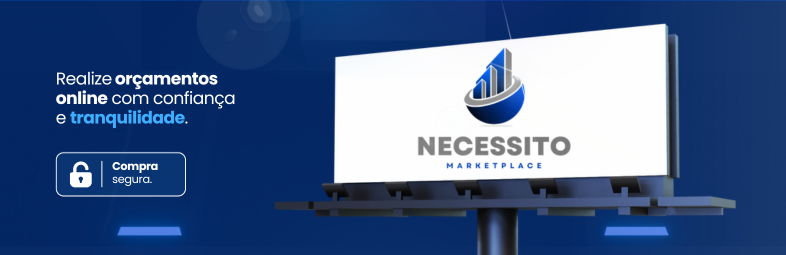
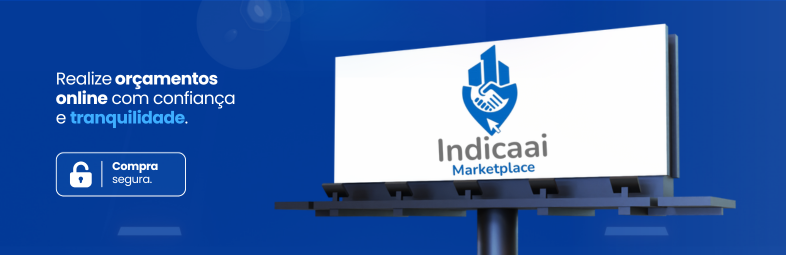
inclusao de nova identidade visual

diff --git a/templates/components/_header.html b/templates/components/_header.html
@@ -63,12 +63,12 @@
 <nav class="navbar navbar-expand-lg bg-body-tertiary py-2 py-lg-3">
     <div class="container">
       <a class="navbar-brand d-flex align-items-center" href="{% url 'home' %}">
-        <img src="{% static 'img/logo2.png' %}" alt="Necessito.br" height="80" class="d-inline-block align-top me-2">
+        <img src="{% static 'img/logo2.png' %}" alt="indicaai.br" height="80" class="d-inline-block align-top me-2">
   
         <!-- MOBILE: Logo mais próximo do design -->
         <span class="d-block d-lg-none"
             style="font-size: 2rem; font-weight: 700; color: #2c3e50; font-family: 'Segoe UI', 'Roboto', sans-serif; margin-top: 0.2rem;">
-        Necessito
+        Indicaai
         </span>
 
   
@@ -171,7 +171,7 @@
         </ul>
       </div>
     </div>
-  </nav>
+</nav>
   
     <!-- Off Canvas Notificações -->
     <div class="offcanvas offcanvas-end" tabindex="-1" id="offcanvasNotifications" aria-labelledby="offcanvasNotificationsLabel">

diff --git a/ads/templates/components/_how_it_works.html b/ads/templates/components/_how_it_works.html
@@ -87,7 +87,7 @@
           </h4>
           <p class="mb-4">Publique sua primeira necessidade gratuitamente e receba propostas competitivas.</p>
           <a href="{% url 'necessidade_create' %}" class="btn btn-primary me-2">Anunciar Gratuitamente</a>
-          <a href="#!" class="btn btn-outline-secondary">Ver Exemplo</a>
+          <a href="#!" class="btn btn-outline-secondary mt-2">Ver Exemplo</a>
         </div>
       </div>
   
@@ -143,7 +143,7 @@
           </h4>
           <p class="mb-4">Cadastre-se como fornecedor e participe de oportunidades relevantes.</p>
           <a href="{% url 'register' %}" class="btn btn-primary me-2">Cadastrar como Fornecedor</a>
-          <a href="{% url 'search:necessidade_search_all' %}" class="btn btn-outline-secondary">Explorar Oportunidades</a>
+          <a href="{% url 'search:necessidade_search_all' %}" class="btn btn-outline-secondary mt-2">Explorar Oportunidades</a>
         </div>
       </div>
   

diff --git a/users/templates/user_profile.html b/users/templates/user_profile.html
@@ -36,7 +36,7 @@
                     <!-- Informações básicas: data de cadastro, cidade, estado -->
                     <p>
                         <i class="fas fa-calendar-check me-1"></i> 
-                        Na Necessito desde {{ user.date_joined|date:"Y" }}<br/>
+                        Na Indicaai desde {{ user.date_joined|date:"Y" }}<br/>
                         {% if user.cidade and user.estado  %}
                         <i class="fas fa-map-marker-alt me-1"></i> 
                         {{ user.cidade }}, {{ user.estado }}
@@ -76,7 +76,7 @@
 
                     <!-- Botão "Quero uma loja profissional" -->
                     <a href="#" class="btn btn-warning w-100 mt-3" style="font-weight: 500;">
-                        Perfil Necessito Profissional
+                        Perfil Indicaai Profissional
                     </a>
                 </div>
             </div>

diff --git a/templates/base.html b/templates/base.html
@@ -21,6 +21,11 @@
     <link rel="stylesheet" href="https://unpkg.com/leaflet.markercluster/dist/MarkerCluster.css" />
     <link rel="stylesheet" href="https://unpkg.com/leaflet.markercluster/dist/MarkerCluster.Default.css" />
     <!-- Favicon -->
+    <link rel="icon" type="image/png" sizes="32x32" href="{% static 'img/favicon-32x32.png' %}">
+    <link rel="icon" type="image/png" sizes="16x16" href="{% static 'img/favicon-16x16.png' %}">
+    <link rel="apple-touch-icon" sizes="180x180" href="{% static 'img/apple-touch-icon.png' %}">
+    <link rel="manifest" href="{% static 'favicon/site.webmanifest' %}">
+    
     <link rel="icon" type="image/x-icon" href="{% static 'img/favicon.ico' %}">
 
     <style>

diff --git a/users/templates/login.html b/users/templates/login.html
@@ -4,7 +4,7 @@
 <head>
     <meta charset="UTF-8">
     <meta name="viewport" content="width=device-width, initial-scale=1.0">
-    <title>{% block title %}Necessito - Seu Marketplace de Necessidades{% endblock %}</title>
+    <title>{% block title %}Indicaai - Seu Marketplace de Necessidades{% endblock %}</title>
     <!-- Link para o CSS do Bootstrap via CDN -->
     <link href="https://cdn.jsdelivr.net/npm/bootstrap@5.3.3/dist/css/bootstrap.min.css" 
           rel="stylesheet" 

diff --git a/users/templates/password_reset_email.html b/users/templates/password_reset_email.html
@@ -6,4 +6,4 @@ Por favor, acesse a seguinte página e escolha uma nova senha:
 Seu nome de usuário, caso tenha esquecido: {{ user.get_username }}
 
 Obrigado por usar nosso site!
-Equipe Necessito.br
+Equipe Indicaai.com

diff --git a/notifications/signals.py b/notifications/signals.py
@@ -47,7 +47,7 @@ def notificar_finalizacao_anuncio(sender, instance, **kwargs):
             # Envia email para fornecedor
             send_mail(
                 subject="Anúncio Finalizado",
-                message=f"Olá {orcamento_aceito.fornecedor.first_name},\n\nO anúncio '{instance.titulo}' que você atendeu foi finalizado pelo cliente.\n\nAtenciosamente,\nNecessito",
+                message=f"Olá {orcamento_aceito.fornecedor.first_name},\n\nO anúncio '{instance.titulo}' que você atendeu foi finalizado pelo cliente.\n\nAtenciosamente,\Indicaai",
                 from_email=settings.DEFAULT_FROM_EMAIL,
                 recipient_list=[orcamento_aceito.fornecedor.email],
                 fail_silently=False
@@ -56,7 +56,7 @@ def notificar_finalizacao_anuncio(sender, instance, **kwargs):
         # Envia email para cliente
         send_mail(
             subject="Anúncio Finalizado",
-            message=f"Olá {instance.cliente.first_name},\n\nSeu anúncio '{instance.titulo}' foi finalizado com sucesso.\n\nObrigado por usar nossa plataforma.\n\nAtenciosamente,\nNecessito",
+            message=f"Olá {instance.cliente.first_name},\n\nSeu anúncio '{instance.titulo}' foi finalizado com sucesso.\n\nObrigado por usar nossa plataforma.\n\nAtenciosamente,\Indicaai",
             from_email=settings.DEFAULT_FROM_EMAIL,
             recipient_list=[instance.cliente.email],
             fail_silently=False
@@ -123,7 +123,7 @@ def notificar_orcamento_rejeitado(sender, instance, **kwargs):
             f"Olá, {fornecedor.first_name}!\n\n"
             f"O cliente rejeitou seu orçamento enviado para o anúncio '{anuncio.titulo}'.\n"
             "Acesse a plataforma para mais detalhes.\n\n"
-            "Atenciosamente,\nNecessito"
+            "Atenciosamente,\Indicaai"
         )
         send_mail(
             subject=assunto,
@@ -160,7 +160,7 @@ def notificar_nova_avaliacao(sender, instance, created, **kwargs):
             f"Olá, {avaliado.first_name}!\n\n"
             f"Você recebeu uma nova avaliação no anúncio '{anuncio.titulo}'.\n"
             "Acesse a plataforma para visualizar os detalhes.\n\n"
-            "Atenciosamente,\nNecessito"
+            "Atenciosamente,\Indicaai"
         )
         send_mail(
             subject=assunto,

diff --git a/core/views.py b/core/views.py
@@ -16,9 +16,9 @@ class HelpView(TemplateView):
         
         # Dados para SEO
         context.update({
-            'page_title': 'Central de Ajuda - Necessito.com',
-            'page_description': 'Central de ajuda da Necessito.com. Aprenda como usar nossa plataforma de oportunidades de negócios, conectar-se com fornecedores e fazer negócios online.',
-            'page_keywords': 'ajuda, suporte, como usar, tutorial, necessito, plataforma, negócios, fornecedores',
+            'page_title': 'Central de Ajuda - Indicaai.com',
+            'page_description': 'Central de ajuda da Indicaai.com. Aprenda como usar nossa plataforma de oportunidades de negócios, conectar-se com fornecedores e fazer negócios online.',
+            'page_keywords': 'ajuda, suporte, como usar, tutorial, indicaai, plataforma, negócios, fornecedores',
             'canonical_url': self.request.build_absolute_uri(),
         })
         
@@ -31,9 +31,9 @@ def help_view(request):
     Alternativa mais simples à class-based view.
     """
     context = {
-        'page_title': 'Central de Ajuda - Necessito.com',
-        'page_description': 'Central de ajuda da Necessito.com. Aprenda como usar nossa plataforma de oportunidades de negócios.',
-        'page_keywords': 'ajuda, suporte, como usar, tutorial, necessito',
+        'page_title': 'Central de Ajuda - Indicaai.com',
+        'page_description': 'Central de ajuda da Indicaai.com. Aprenda como usar nossa plataforma de oportunidades de negócios.',
+        'page_keywords': 'ajuda, suporte, como usar, tutorial, indicaai',
     }
     
     return render(request, 'help/help.html', context) 

diff --git a/budgets/email_signals.py b/budgets/email_signals.py
@@ -20,7 +20,7 @@ def enviar_email_novo_orcamento(sender, instance, created, **kwargs):
             f"Olá, {cliente.first_name}!\n\n"
             f"Você recebeu um novo orçamento para seu anúncio '{anuncio.titulo}'.\n"
             "Acesse a plataforma para visualizar os detalhes e responder.\n\n"
-            "Atenciosamente,\nNecessito"
+            "Atenciosamente,\Indicaai"
         )
         send_mail(
             subject=assunto,
@@ -46,7 +46,7 @@ def enviar_email_orcamento_aceito(sender, instance, **kwargs):
             f"Olá, {fornecedor.first_name}!\n\n"
             f"Seu orçamento para o anúncio '{anuncio.titulo}' foi aceito pelo cliente.\n"
             "Acesse a plataforma para mais detalhes e iniciar o atendimento.\n\n"
-            "Atenciosamente,\nNecessito"
+            "Atenciosamente,\Indicaai"
         )
         send_mail(
             subject=assunto,

diff --git a/ads/signals.py b/ads/signals.py
@@ -19,7 +19,7 @@ def enviar_email_criacao_anuncio(sender, instance, created, **kwargs):
             "Seu novo anúncio foi criado com sucesso. "
             f"Título do anúncio: {instance.titulo}\n"
             "Muito obrigado por usar nossa plataforma.\n\n"
-            "Atenciosamente,\nNecessito"
+            "Atenciosamente,\Indicaai"
         )
         destinatario = [user.email]
 

diff --git a/readme.md b/readme.md
@@ -1,7 +1,7 @@
-# Necessito - Marketplace de Necessidades
+# Indicaai - Marketplace de Necessidades
 
 ## 📋 Sobre o Projeto
-O Necessito.br é uma plataforma inovadora que revoluciona a forma como pessoas e empresas encontram soluções para suas necessidades. Nossa plataforma conecta anunciantes e fornecedores de forma inteligente e eficiente, facilitando negociações e parcerias comerciais.
+O Indicaai.com é uma plataforma inovadora que revoluciona a forma como pessoas e empresas encontram soluções para suas necessidades. Nossa plataforma conecta anunciantes e fornecedores de forma inteligente e eficiente, facilitando negociações e parcerias comerciais.
 
 ## 🎯 Nossa Missão
 Transformar a maneira como as necessidades são atendidas, criando um ecossistema digital confiável e eficiente que beneficia tanto quem precisa quanto quem oferece soluções.
@@ -40,7 +40,7 @@ Estamos sempre abertos a novas parcerias e integrações que possam agregar valo
 - Website: [www.necessito.br](https://www.necessito.online)
 
 ## ⚖ Direitos Autorais
-© 2025 Necessito - Todos os direitos reservados.
+© 2025 Indicaai - Todos os direitos reservados.
 Este é um software proprietário e seu uso, modificação ou distribuição não autorizada é estritamente proibida.
 
 ## 🚀 Tecnologias Utilizadas

diff --git a/api/README.md b/api/README.md
@@ -1,6 +1,6 @@
-# API Necessito
+# API Indicaai
 
-API RESTful para integração com o sistema Necessito, desenvolvida com Django Rest Framework.
+API RESTful para integração com o sistema Indicaai, desenvolvida com Django Rest Framework.
 
 ## Estrutura da API
 
